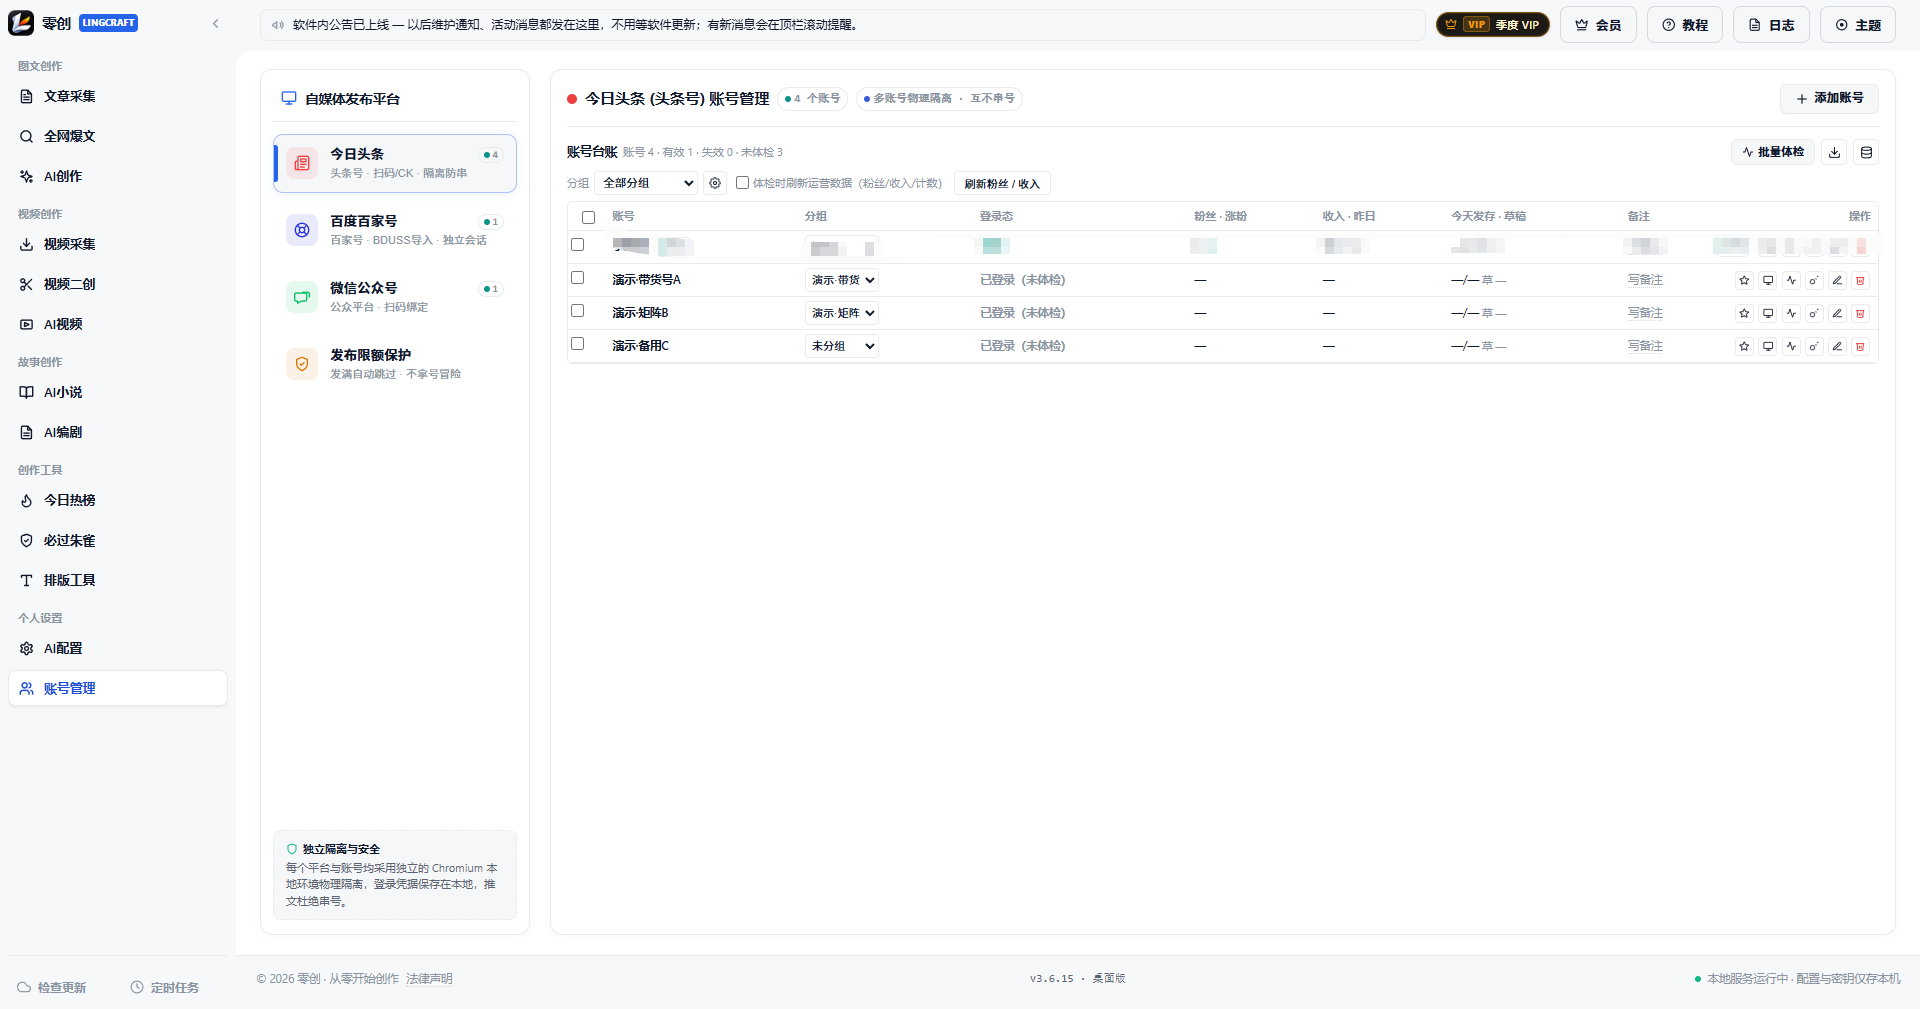
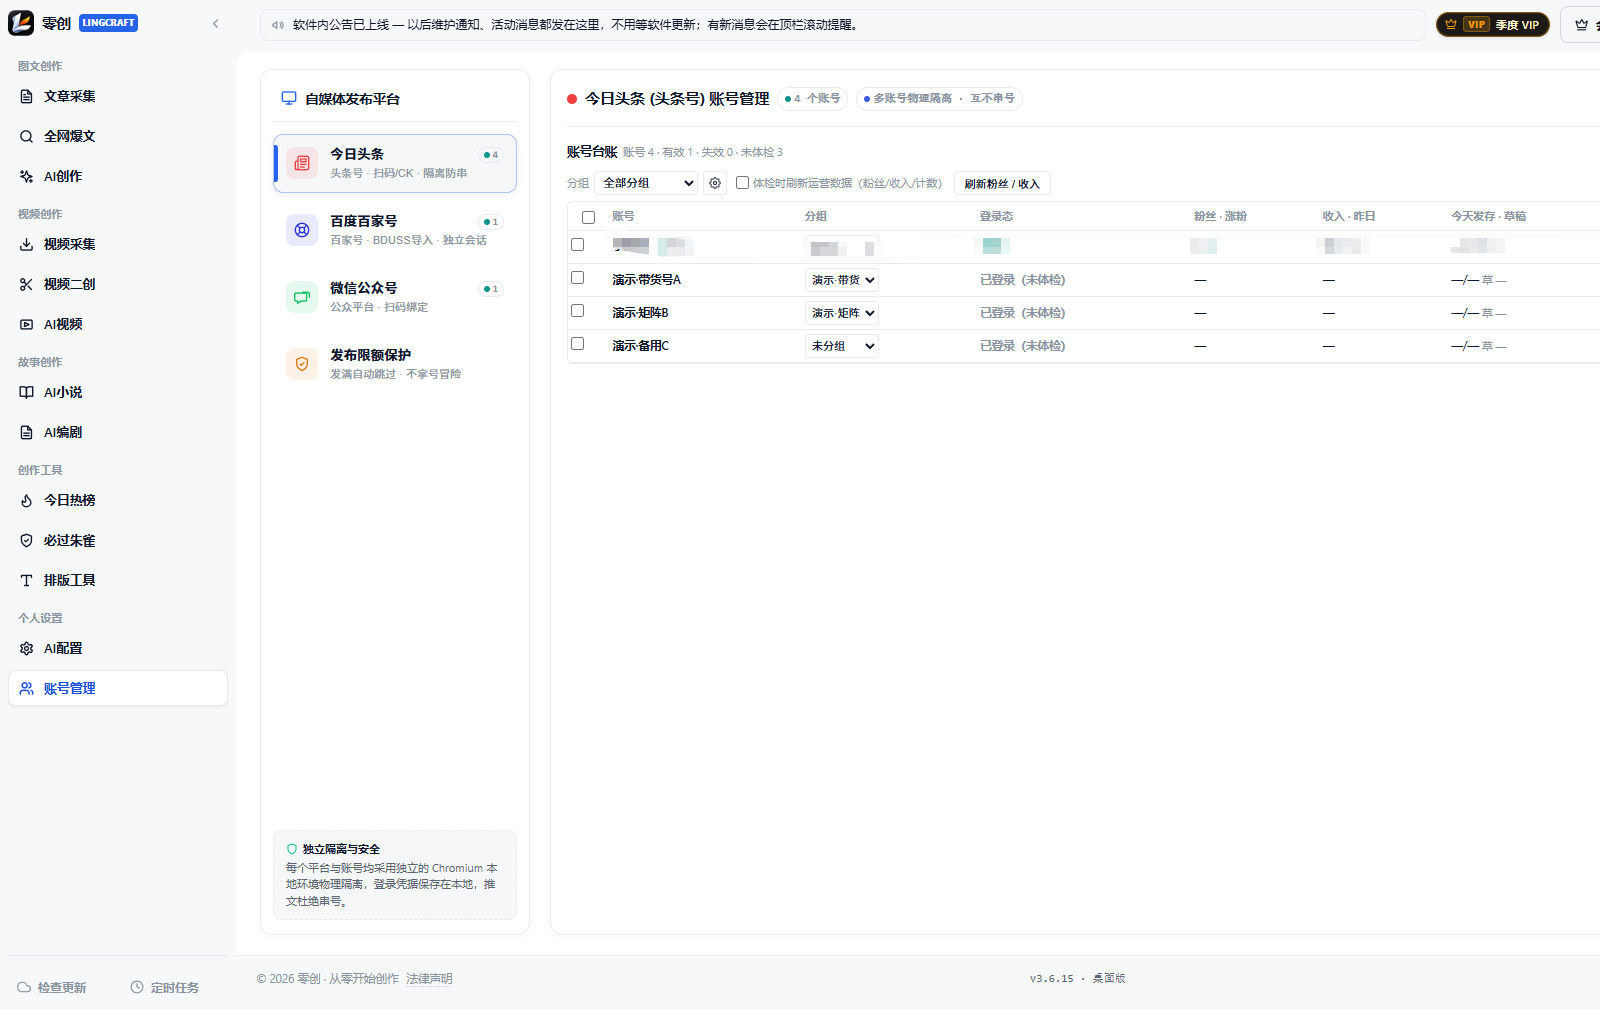
docs: 更新授权说明与联系方式（去掉微信与价格档位）

diff --git a/README.md b/README.md
@@ -165,24 +165,11 @@
 
 > 版本号、安装包与 SHA-256 以官方发布页和云端 `version.json` 清单为唯一权威源。软件启动后会检查新版本，也可在「检查更新」中一键下载覆盖升级。
 
-## 先体验，再决定
+## 授权与购买
 
-提供体验卡密（天数以客服提供为准），每台电脑限领一次。先跑通写稿、配图、发布全流程，再决定是否开通正式会员。
+零创是 Windows 桌面商业软件，使用需授权卡密。获取卡密请联系作者：**客服 QQ 574719738**。
 
-**客服 QQ：574719738**　**客服微信：movu0510**
-
-## 会员档位
-
-| 档位 | 价格 | 说明 |
-| :--- | :--- | :--- |
-| 月卡 | ¥58 | 按月使用 |
-| 季卡 | ¥128 | 约 ¥42.7 / 月 |
-| 年卡 | ¥288 | 约 ¥24 / 月 |
-| 体验卡 | 天数以客服为准 | 先试用再决定 |
-
-无积分制，开通后功能全解锁。卡密一卡一机，支持每月 2 次自主解绑换机。
-
-**购买与咨询：客服 QQ 574719738 ｜ 客服微信 movu0510**
+卡密一卡一机，支持每月 2 次自主解绑换机。
 
 ## 常见问题（FAQ）
 
@@ -244,7 +231,7 @@ A：目前只提供 Windows 10 / 11 64 位桌面版。
 
 **Q：软件收费吗？**
 
-A：零创是商业授权软件，不是免费开源软件。提供体验卡密，正式使用需购买月卡 / 季卡 / 年卡。
+A：零创是商业授权软件，不是免费开源软件。使用需授权卡密，获取卡密请联系作者（客服 QQ 574719738）。
 
 ## 相关搜索
 
